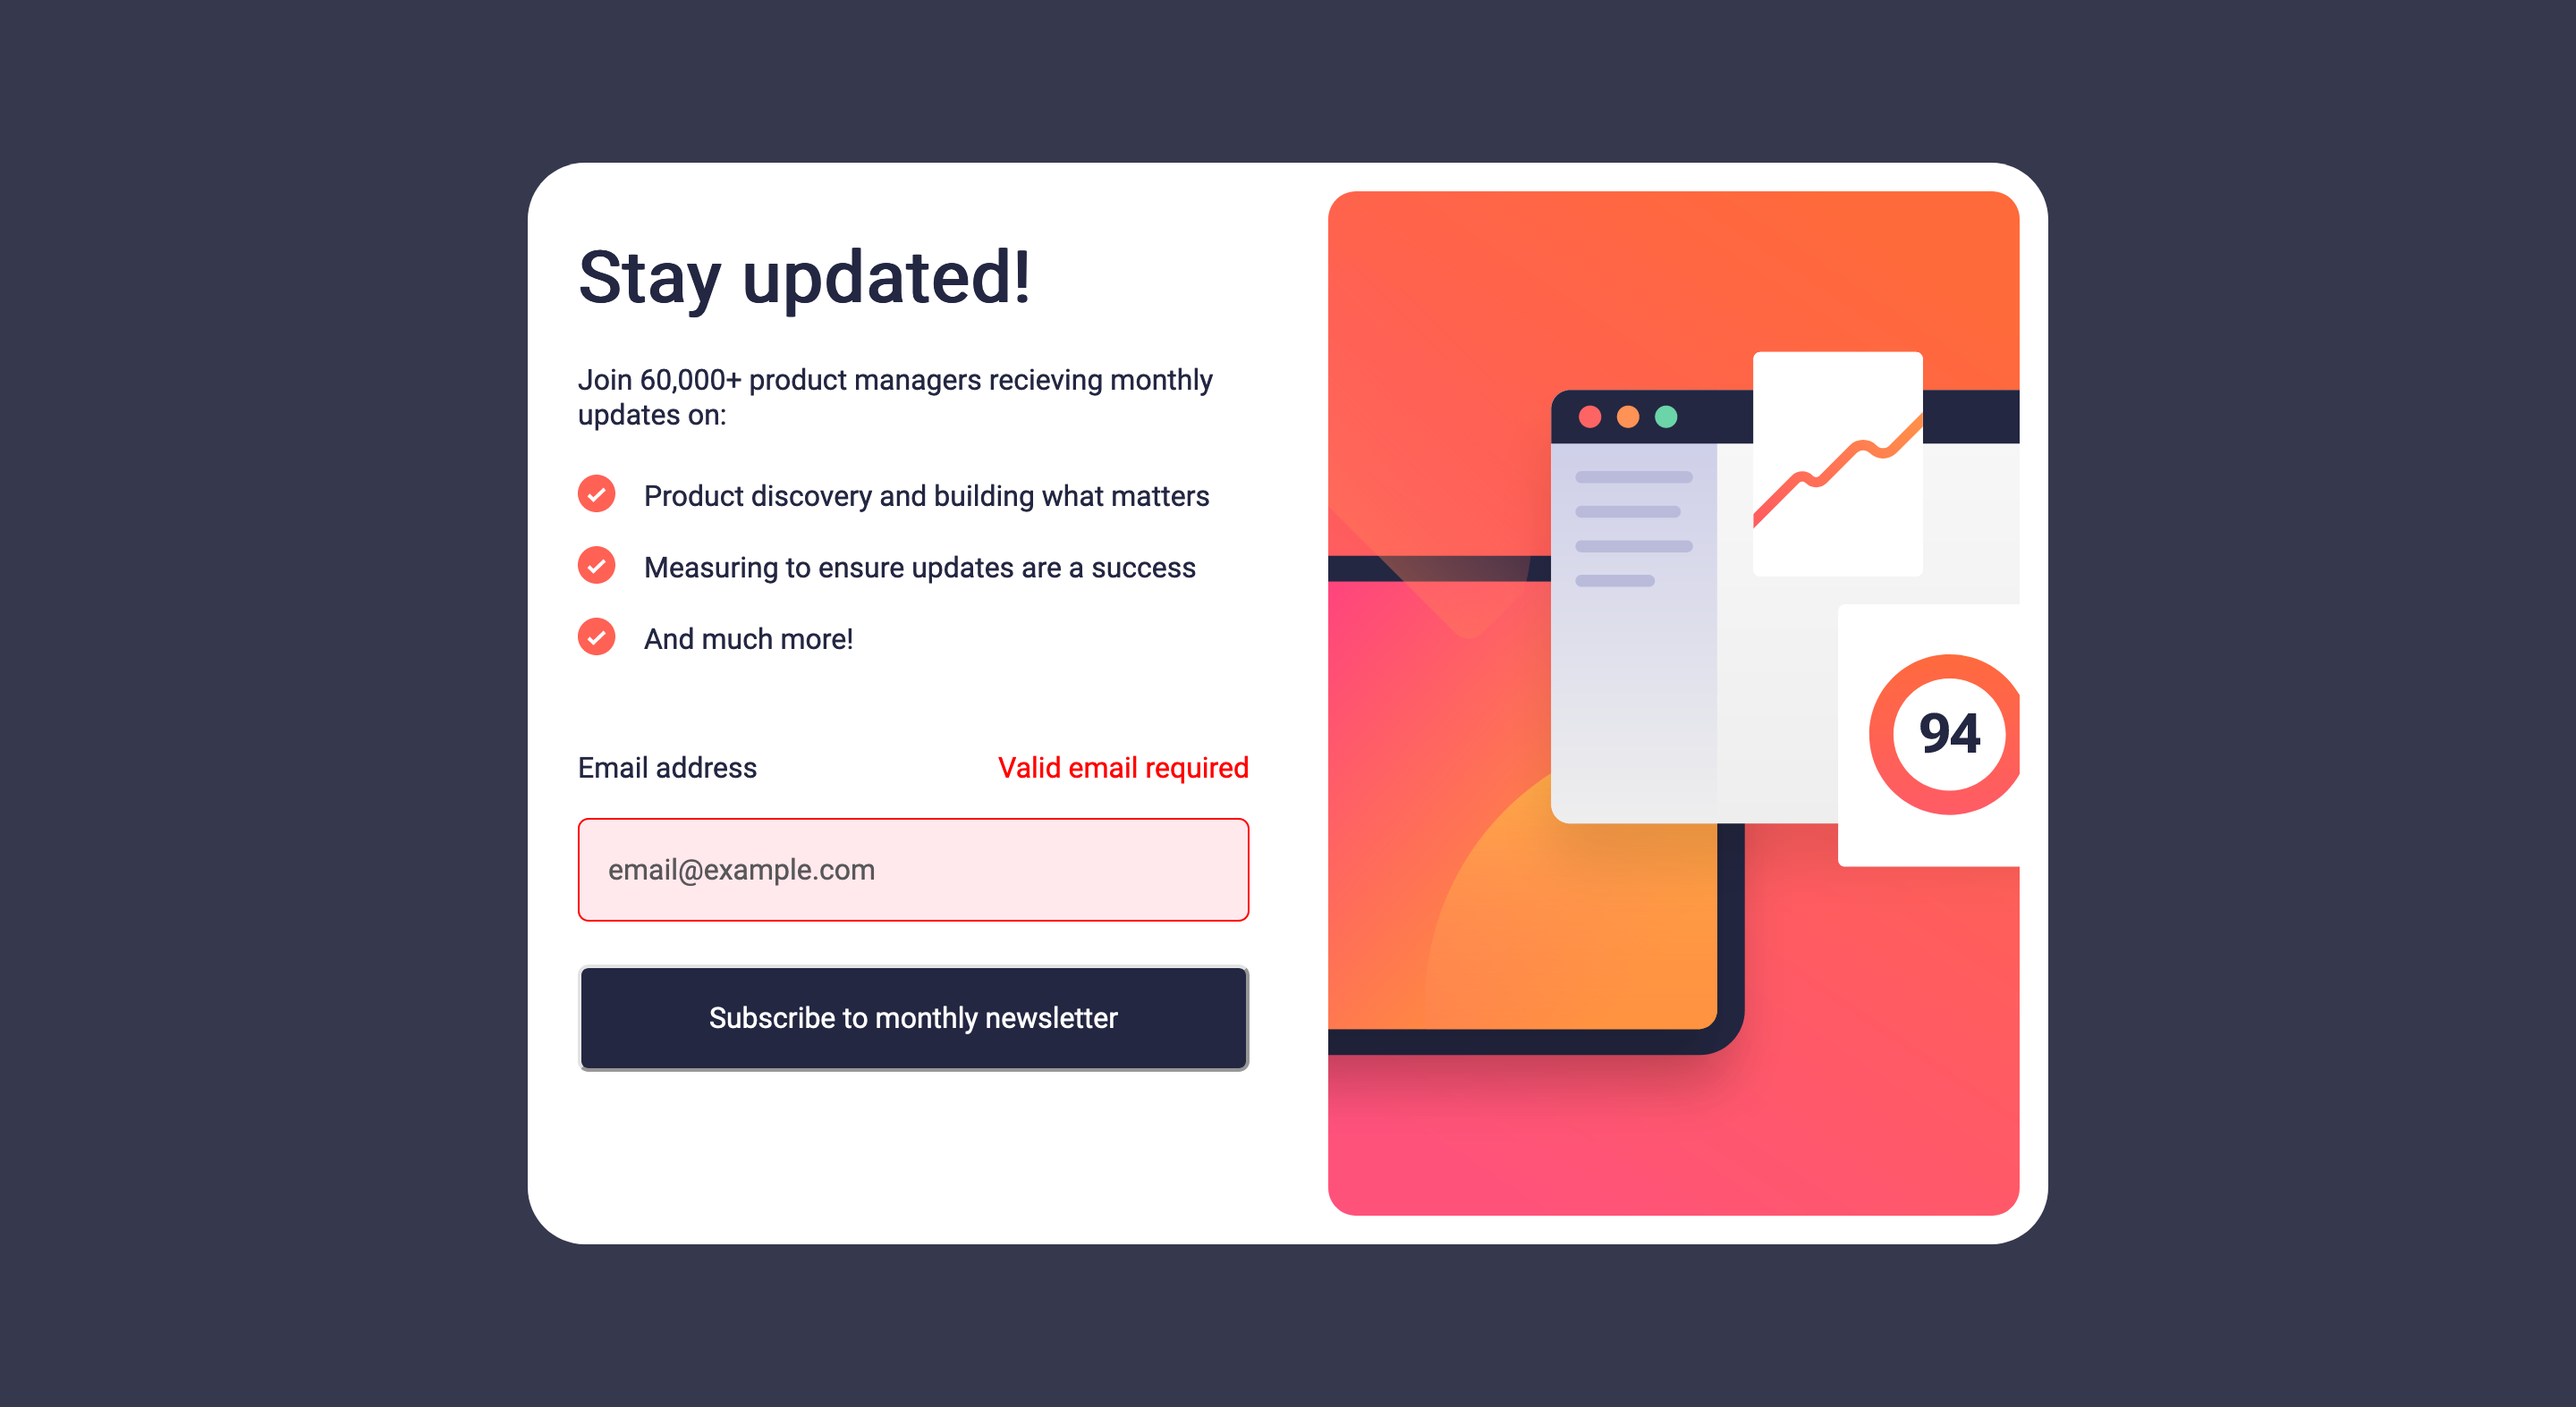
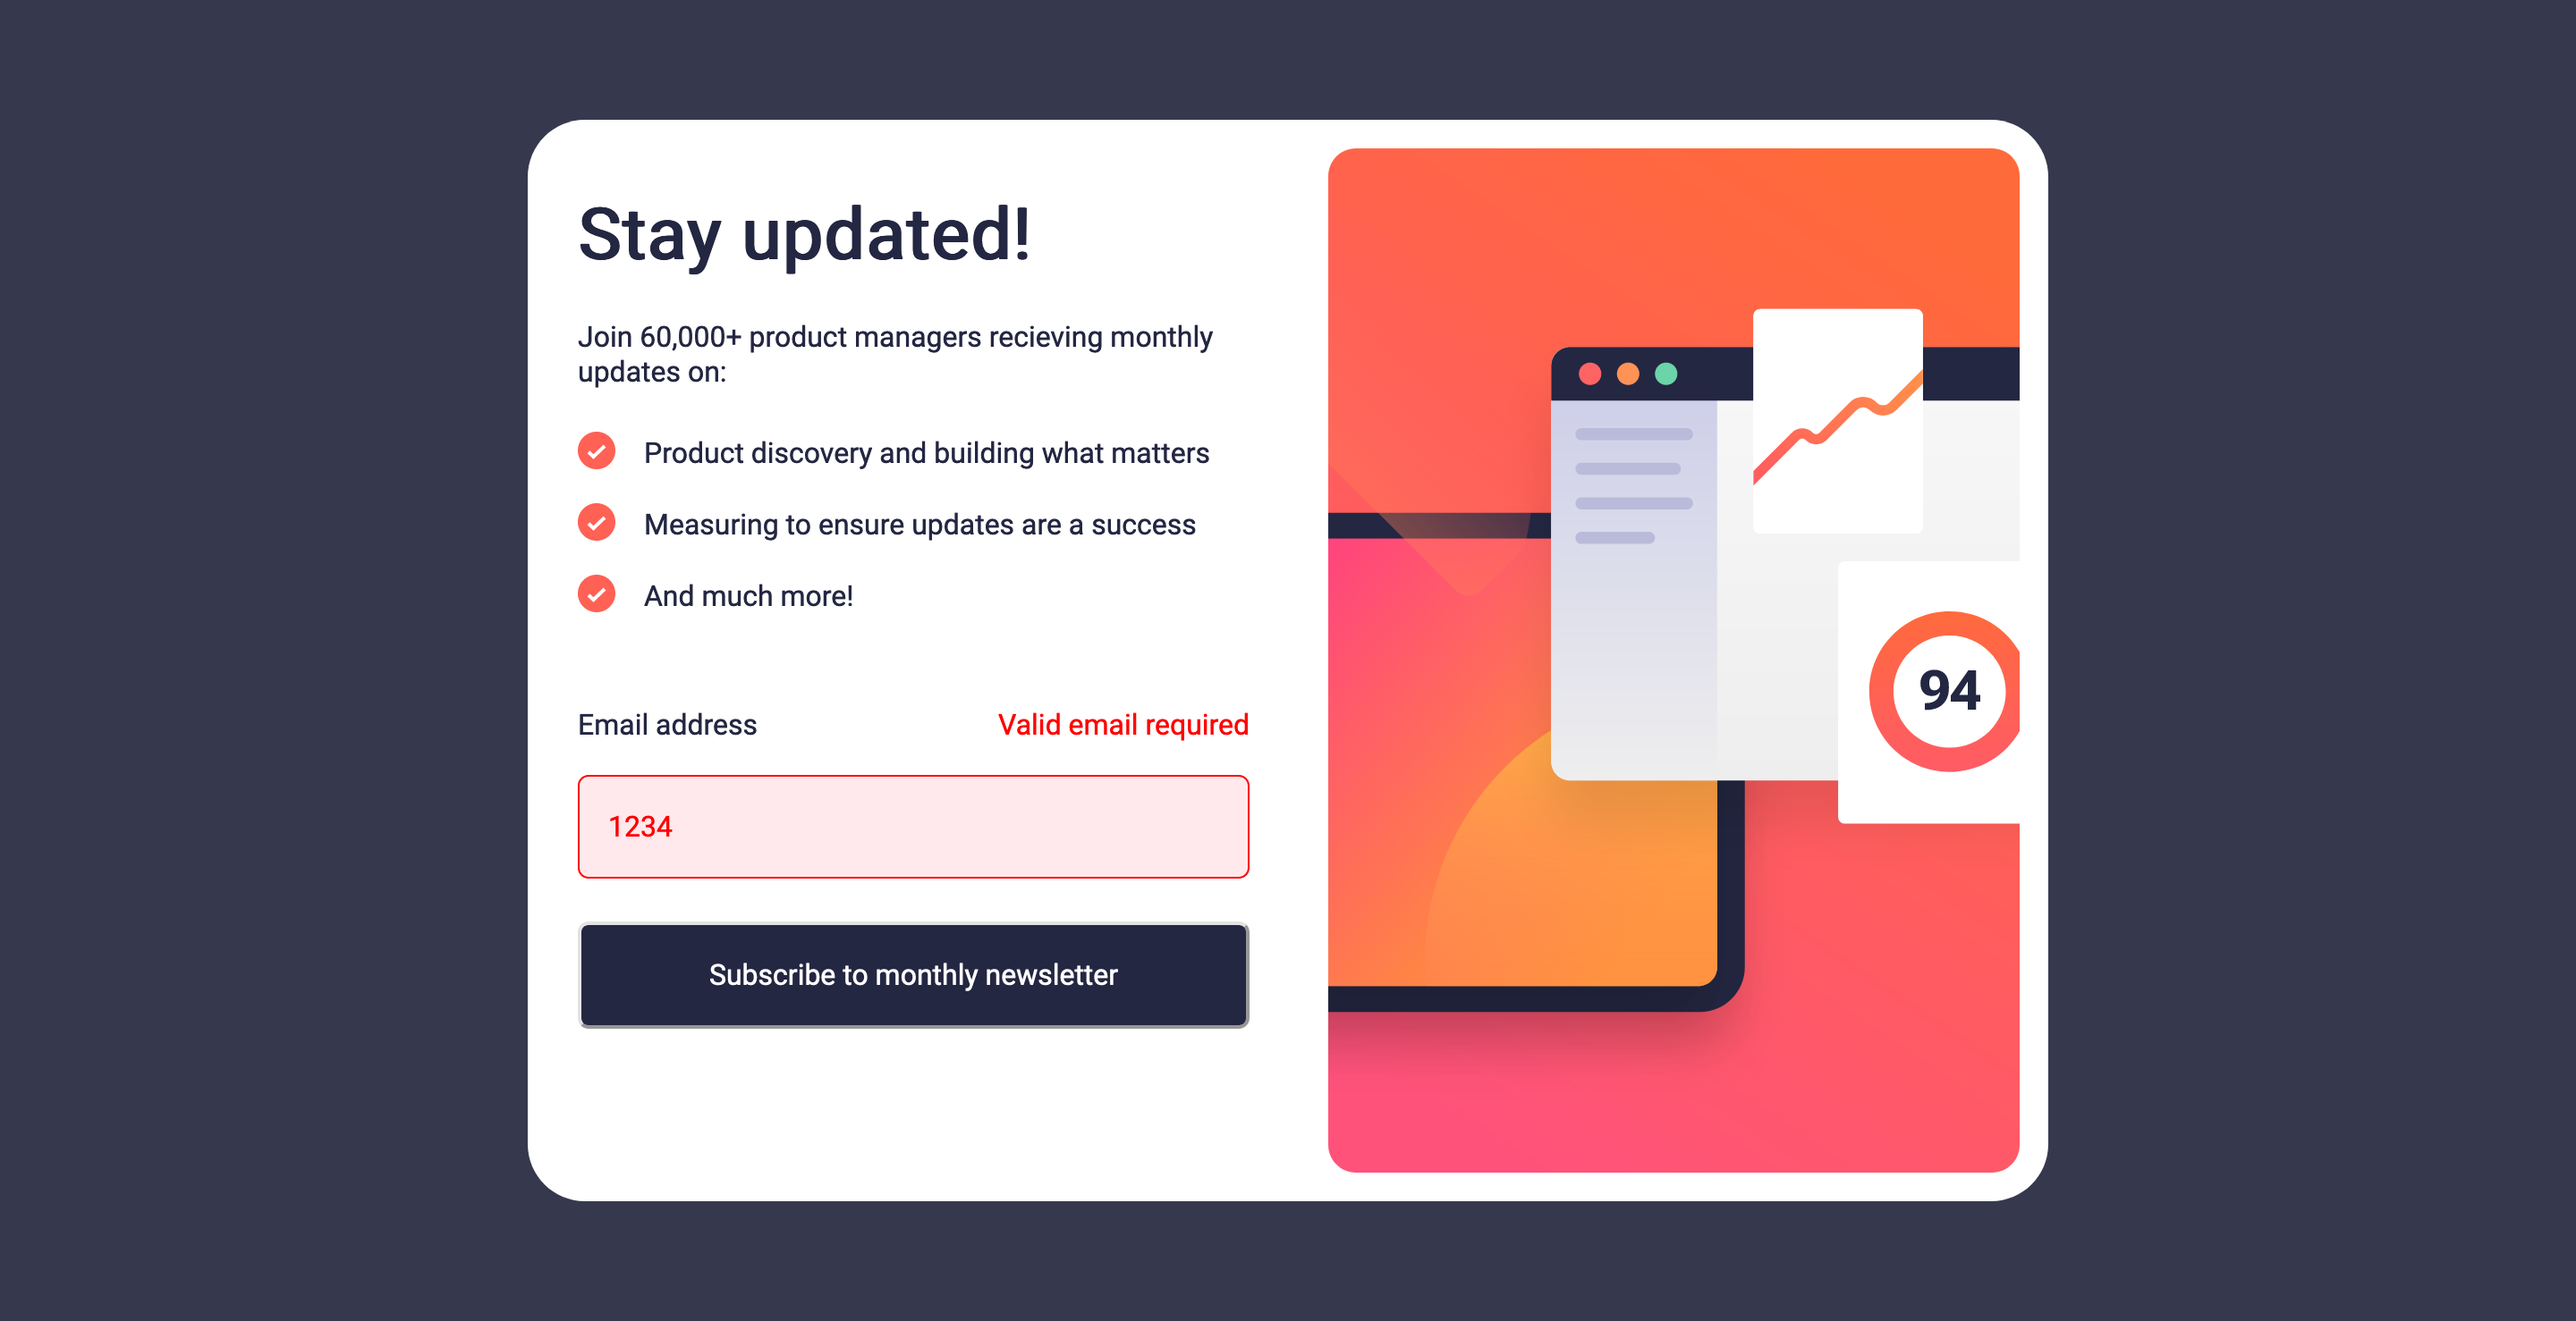
add and update some screenshots

diff --git a/README.md b/README.md
@@ -33,13 +33,21 @@ Users should be able to:
 
 ### Screenshot
 
-| Normal State | Active State | Error State: Wrong input |
-|:---------:|:---------:|:---------:|
-| ![Normal State](./screenshots/normal-state.png) | ![Active State](./screenshots/active-state.png) | ![Error State: Wrong input](./screenshots/error-wrong-input-state.png) |
-
-| Error State: No input | Mobile State |
+| Normal State: Desktop | Success State: Desktop |
 |:---------:|:---------:|
-| ![Error State: No input](./screenshots/error-no-input-state.png) | ![Mobile State](./screenshots/mobile-state.png) |
+| ![Normal State: Desktop](./screenshots/normal-state.png) | ![Success State: Desktop](./screenshots/success-state-desktop.png) |
+
+| Active State: Submit button | Active State: Input |
+|:---------:|:---------:|
+| ![Active State: Submit button](./screenshots/active-state-button.png) | ![Active State: Input](./screenshots/active-state-input.png) |
+
+| Error State: No Input | Error State: Wrong Input |
+|:---------:|:---------:|
+| ![Error State: No Input](./screenshots/error-no-input-state.png) | ![Error State: Wrong Input](./screenshots/error-wrong-input-state.png) |
+
+| Normal State: Mobile | Success State: Mobile |
+|:---------:|:---------:|
+| ![Normal State: Mobile](./screenshots/mobile-state.png) | ![Success State: Mobile](./screenshots/success-state-mobile.png) |
 
 ### Links
 
